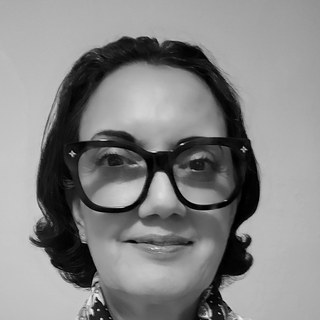
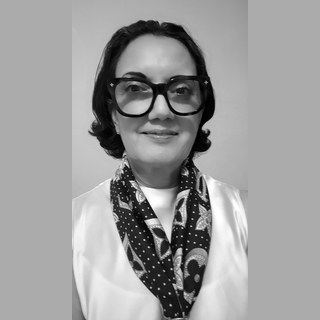
Show more of Rosa Arriaga portrait

diff --git a/index.html b/index.html
@@ -378,7 +378,7 @@
 
   <footer class="foot">
     <span>Schedule and speakers are subject to change.</span>
-    <span>KAIST College of AI · Last updated <span id="built">2026-08-31 15:54 KST</span></span>
+    <span>KAIST College of AI · Last updated <span id="built">2026-09-01 00:13 KST</span></span>
   </footer>
 </div>
 

diff --git a/talk-0901.html b/talk-0901.html
@@ -245,7 +245,7 @@
 
   <footer class="foot">
     <span>Schedule and speakers are subject to change.</span>
-    <span>KAIST College of AI · Last updated <span id="built">2026-08-31 15:54 KST</span></span>
+    <span>KAIST College of AI · Last updated <span id="built">2026-09-01 00:13 KST</span></span>
   </footer>
 </div>
 

diff --git a/talk-0915.html b/talk-0915.html
@@ -245,7 +245,7 @@
 
   <footer class="foot">
     <span>Schedule and speakers are subject to change.</span>
-    <span>KAIST College of AI · Last updated <span id="built">2026-08-31 15:54 KST</span></span>
+    <span>KAIST College of AI · Last updated <span id="built">2026-09-01 00:13 KST</span></span>
   </footer>
 </div>
 

diff --git a/talk-0922.html b/talk-0922.html
@@ -245,7 +245,7 @@
 
   <footer class="foot">
     <span>Schedule and speakers are subject to change.</span>
-    <span>KAIST College of AI · Last updated <span id="built">2026-08-31 15:54 KST</span></span>
+    <span>KAIST College of AI · Last updated <span id="built">2026-09-01 00:13 KST</span></span>
   </footer>
 </div>
 

diff --git a/talk-0929.html b/talk-0929.html
@@ -245,7 +245,7 @@
 
   <footer class="foot">
     <span>Schedule and speakers are subject to change.</span>
-    <span>KAIST College of AI · Last updated <span id="built">2026-08-31 15:54 KST</span></span>
+    <span>KAIST College of AI · Last updated <span id="built">2026-09-01 00:13 KST</span></span>
   </footer>
 </div>
 

diff --git a/talk-1006.html b/talk-1006.html
@@ -245,7 +245,7 @@
 
   <footer class="foot">
     <span>Schedule and speakers are subject to change.</span>
-    <span>KAIST College of AI · Last updated <span id="built">2026-08-31 15:54 KST</span></span>
+    <span>KAIST College of AI · Last updated <span id="built">2026-09-01 00:13 KST</span></span>
   </footer>
 </div>
 

diff --git a/talk-1027.html b/talk-1027.html
@@ -245,7 +245,7 @@
 
   <footer class="foot">
     <span>Schedule and speakers are subject to change.</span>
-    <span>KAIST College of AI · Last updated <span id="built">2026-08-31 15:54 KST</span></span>
+    <span>KAIST College of AI · Last updated <span id="built">2026-09-01 00:13 KST</span></span>
   </footer>
 </div>
 

diff --git a/talk-1103.html b/talk-1103.html
@@ -245,7 +245,7 @@
 
   <footer class="foot">
     <span>Schedule and speakers are subject to change.</span>
-    <span>KAIST College of AI · Last updated <span id="built">2026-08-31 15:54 KST</span></span>
+    <span>KAIST College of AI · Last updated <span id="built">2026-09-01 00:13 KST</span></span>
   </footer>
 </div>
 

diff --git a/talk-1117.html b/talk-1117.html
@@ -245,7 +245,7 @@
 
   <footer class="foot">
     <span>Schedule and speakers are subject to change.</span>
-    <span>KAIST College of AI · Last updated <span id="built">2026-08-31 15:54 KST</span></span>
+    <span>KAIST College of AI · Last updated <span id="built">2026-09-01 00:13 KST</span></span>
   </footer>
 </div>
 

diff --git a/talk-1201.html b/talk-1201.html
@@ -245,7 +245,7 @@
 
   <footer class="foot">
     <span>Schedule and speakers are subject to change.</span>
-    <span>KAIST College of AI · Last updated <span id="built">2026-08-31 15:54 KST</span></span>
+    <span>KAIST College of AI · Last updated <span id="built">2026-09-01 00:13 KST</span></span>
   </footer>
 </div>
 

diff --git a/talks.html b/talks.html
@@ -225,7 +225,7 @@
 
   <footer class="foot">
     <span>Schedule and speakers are subject to change.</span>
-    <span>KAIST College of AI · Last updated <span id="built">2026-08-31 15:54 KST</span></span>
+    <span>KAIST College of AI · Last updated <span id="built">2026-09-01 00:13 KST</span></span>
   </footer>
 </div>
 
